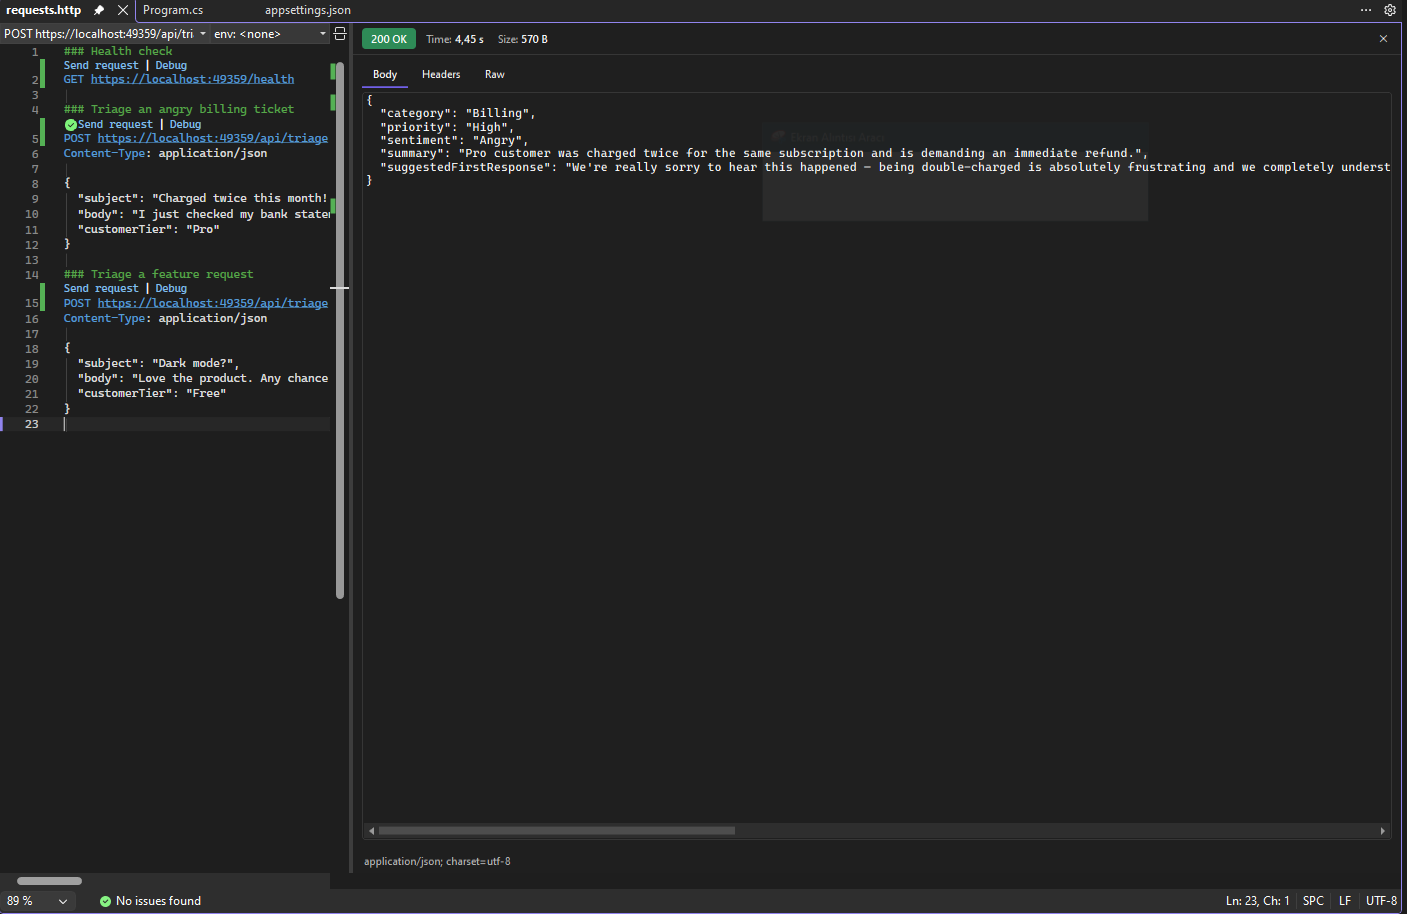
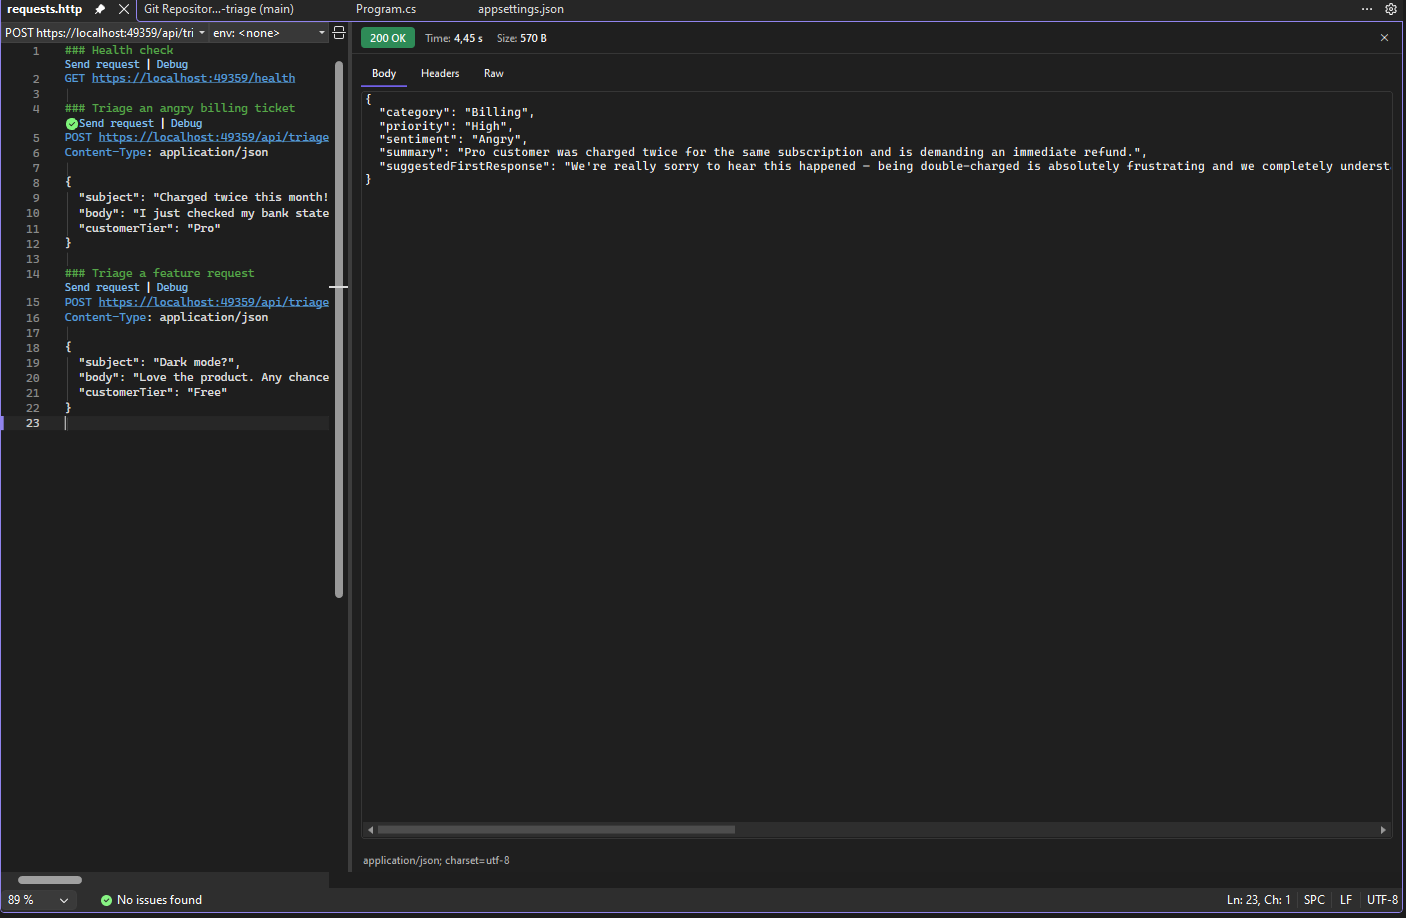
Add live response screenshot to README

diff --git a/README.md b/README.md
@@ -74,9 +74,10 @@ Response:
   "suggestedFirstResponse": "I'm really sorry about the duplicate charge — I've flagged this to our billing team and we'll resolve it as a priority."
 }
 ```
+
 Live response during development (Claude Sonnet via the Anthropic provider):
 
-![Sample triage response](docs/sample-response.png)
+![Sample triage response](docs/sample-response.PNG)
 
 More examples in [`samples/requests.http`](samples/requests.http). Run the tests (no API key required):
 
